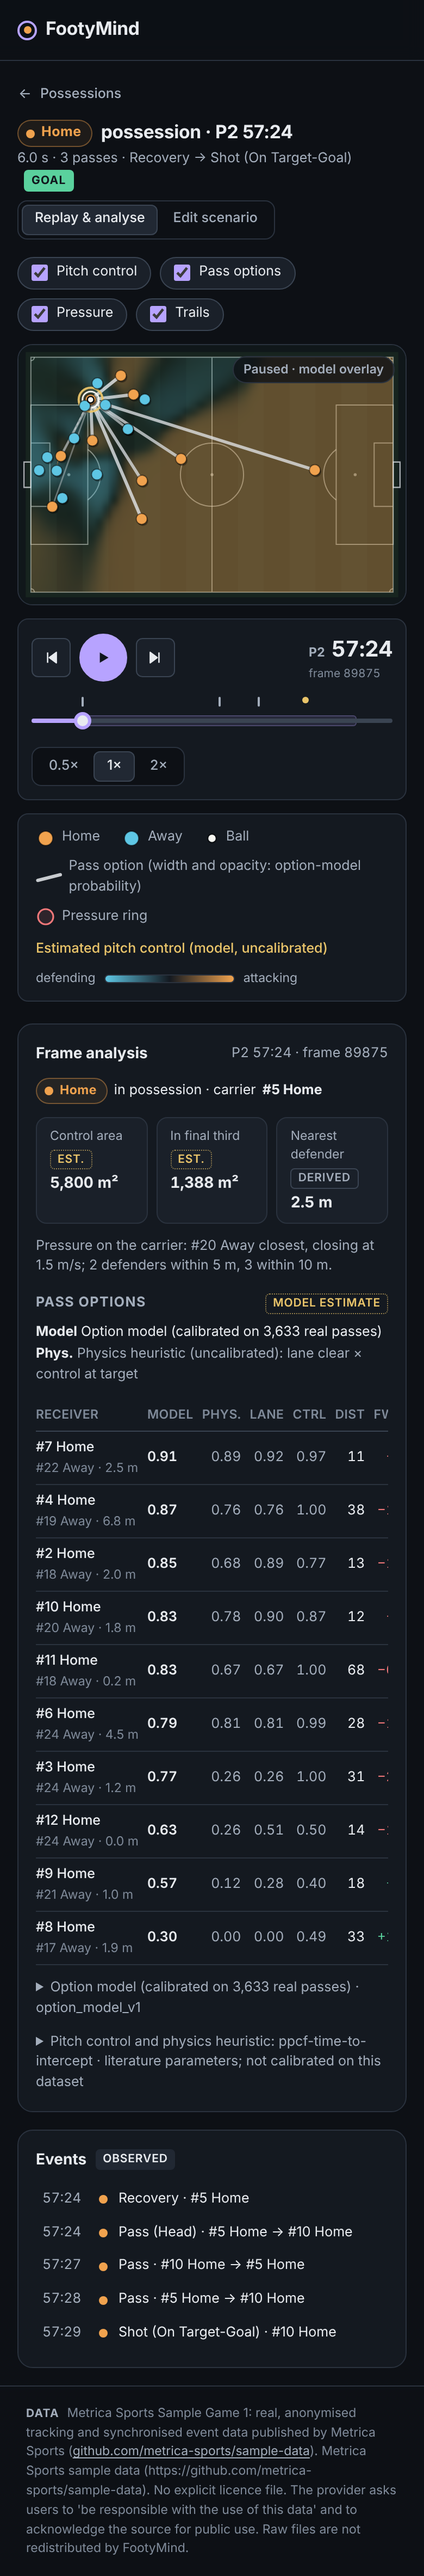
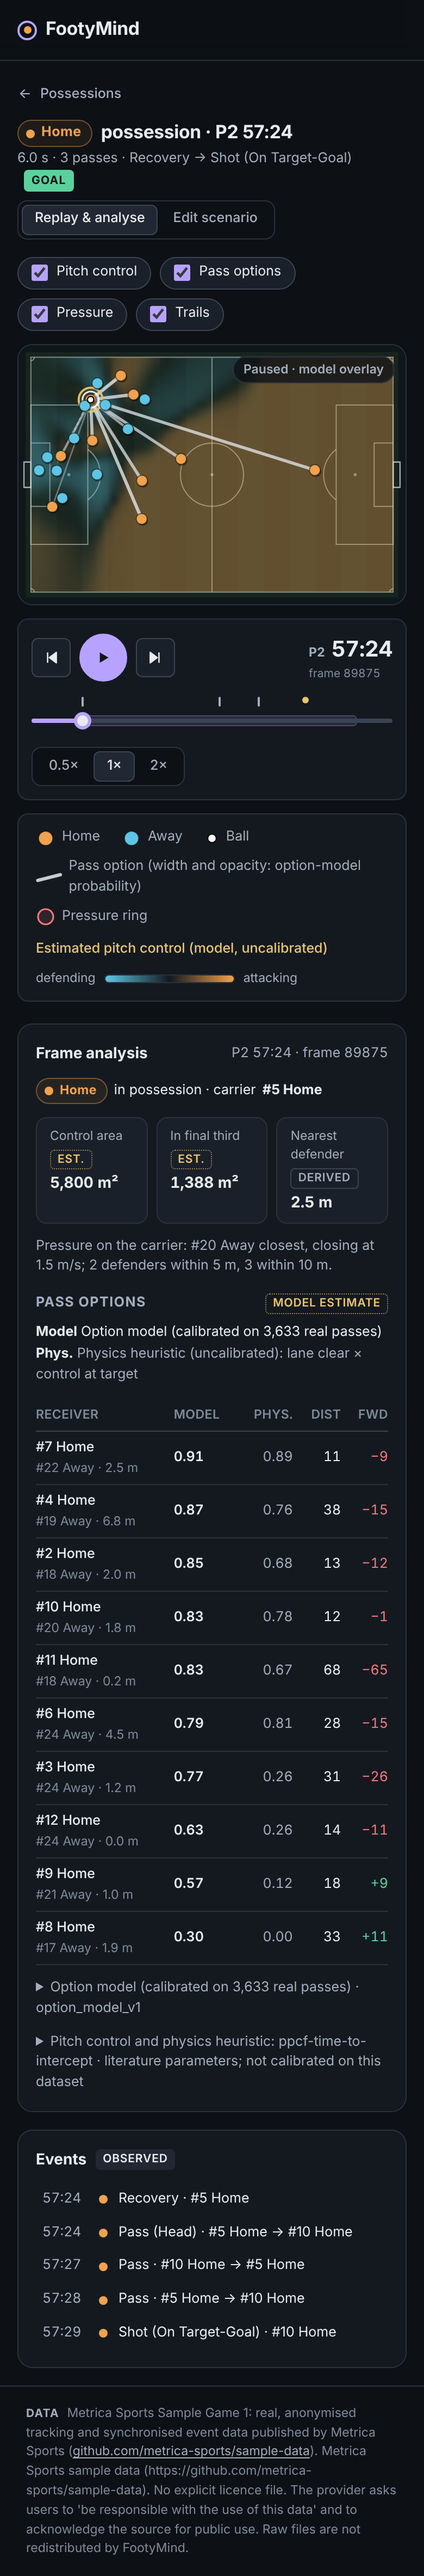
Fit pass-options table at phone width by hiding physics component columns

diff --git a/web/src/components/PassOptionsTable.tsx b/web/src/components/PassOptionsTable.tsx
@@ -46,10 +46,10 @@ export function PassOptionsTable({ id, options, players, highlight, onHighlight,
             <th scope="col" className="num" title="Physics heuristic (uncalibrated) = lane clear x control at target">
               Phys.
             </th>
-            <th scope="col" className="num" title="Physics: estimated probability that no defender intercepts in the lane">
+            <th scope="col" className="num col-detail" title="Physics: estimated probability that no defender intercepts in the lane">
               Lane
             </th>
-            <th scope="col" className="num" title="Physics: estimated attacking pitch control at the target">
+            <th scope="col" className="num col-detail" title="Physics: estimated attacking pitch control at the target">
               Ctrl
             </th>
             <th scope="col" className="num" title="Pass distance in metres">
@@ -103,8 +103,8 @@ export function PassOptionsTable({ id, options, players, highlight, onHighlight,
                 )}
               </td>
               <td className="num muted">{fmtProb(o.p_success)}</td>
-              <td className="num muted">{fmtProb(o.p_lane_clear)}</td>
-              <td className="num muted">{fmtProb(o.p_control_at_target)}</td>
+              <td className="num muted col-detail">{fmtProb(o.p_lane_clear)}</td>
+              <td className="num muted col-detail">{fmtProb(o.p_control_at_target)}</td>
               <td className="num">{o.distance_m.toFixed(0)}</td>
               <td className={`num ${o.forward_progress_m >= 0.5 ? "pos" : o.forward_progress_m <= -0.5 ? "neg" : ""}`}>
                 {o.forward_progress_m >= 0.5 ? "+" : o.forward_progress_m <= -0.5 ? "−" : ""}

diff --git a/web/src/styles/app.css b/web/src/styles/app.css
@@ -1501,6 +1501,11 @@ kbd {
   .main {
     padding: var(--sp-4);
   }
+  /* Phone width: hide the two physics components (lane, control). Their product is
+     still shown as "Phys.", and the wrapper scrolls horizontally as a fallback. */
+  .options-table .col-detail {
+    display: none;
+  }
   .topbar {
     padding: 0 var(--sp-4);
   }
